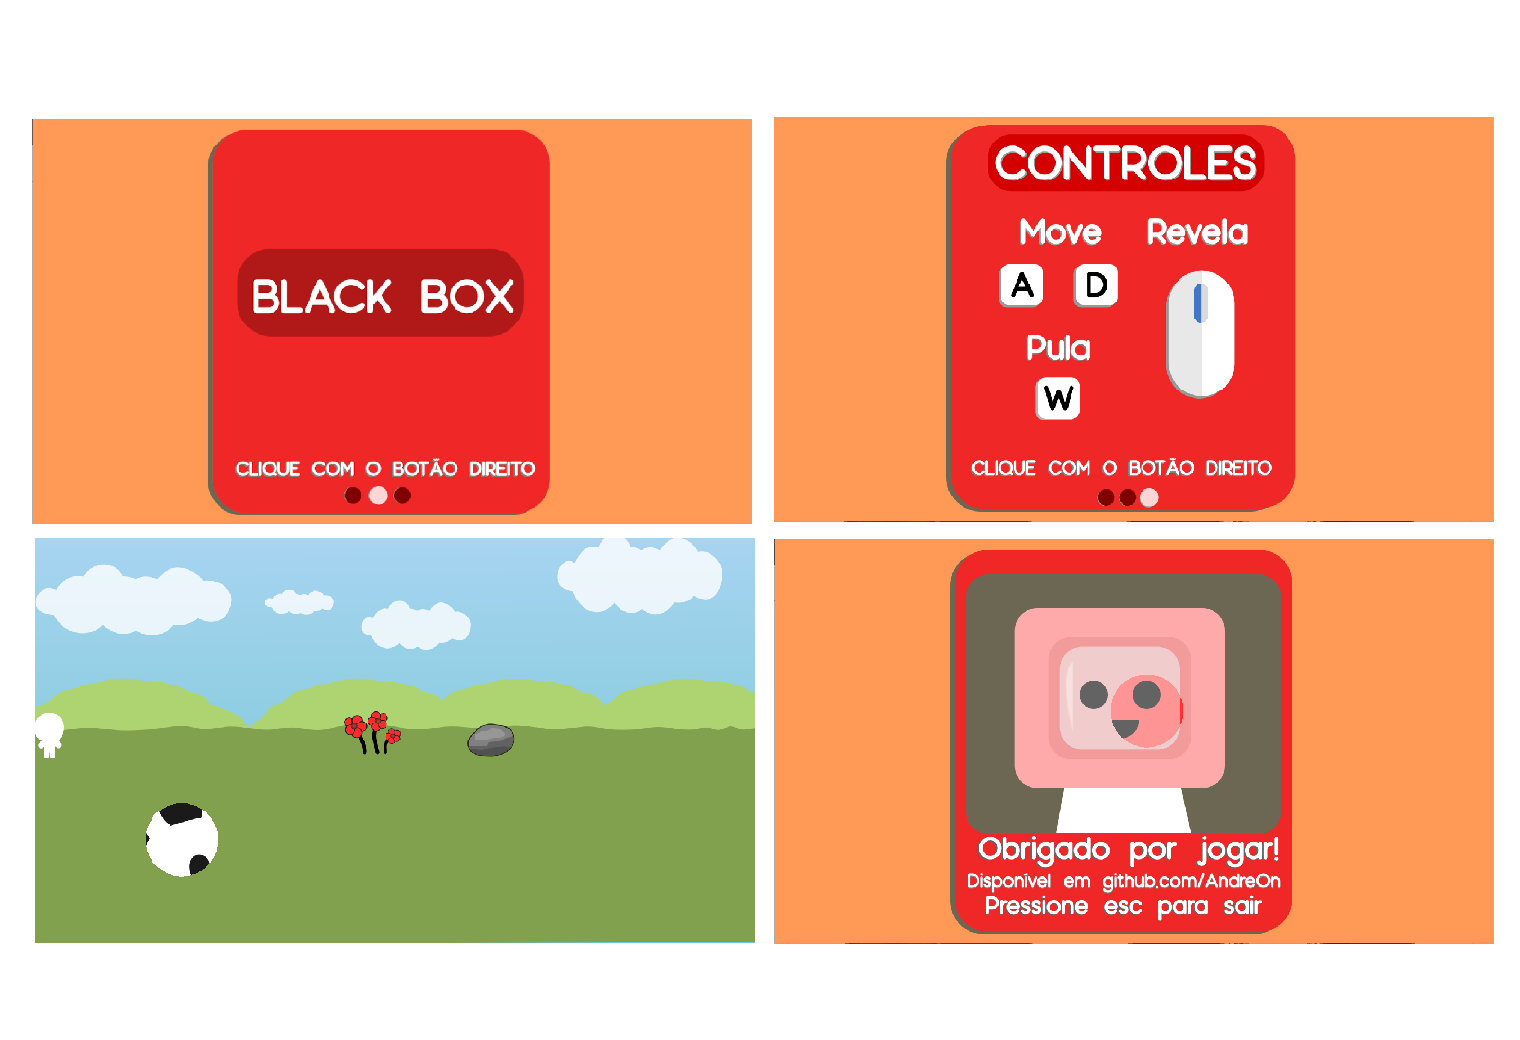
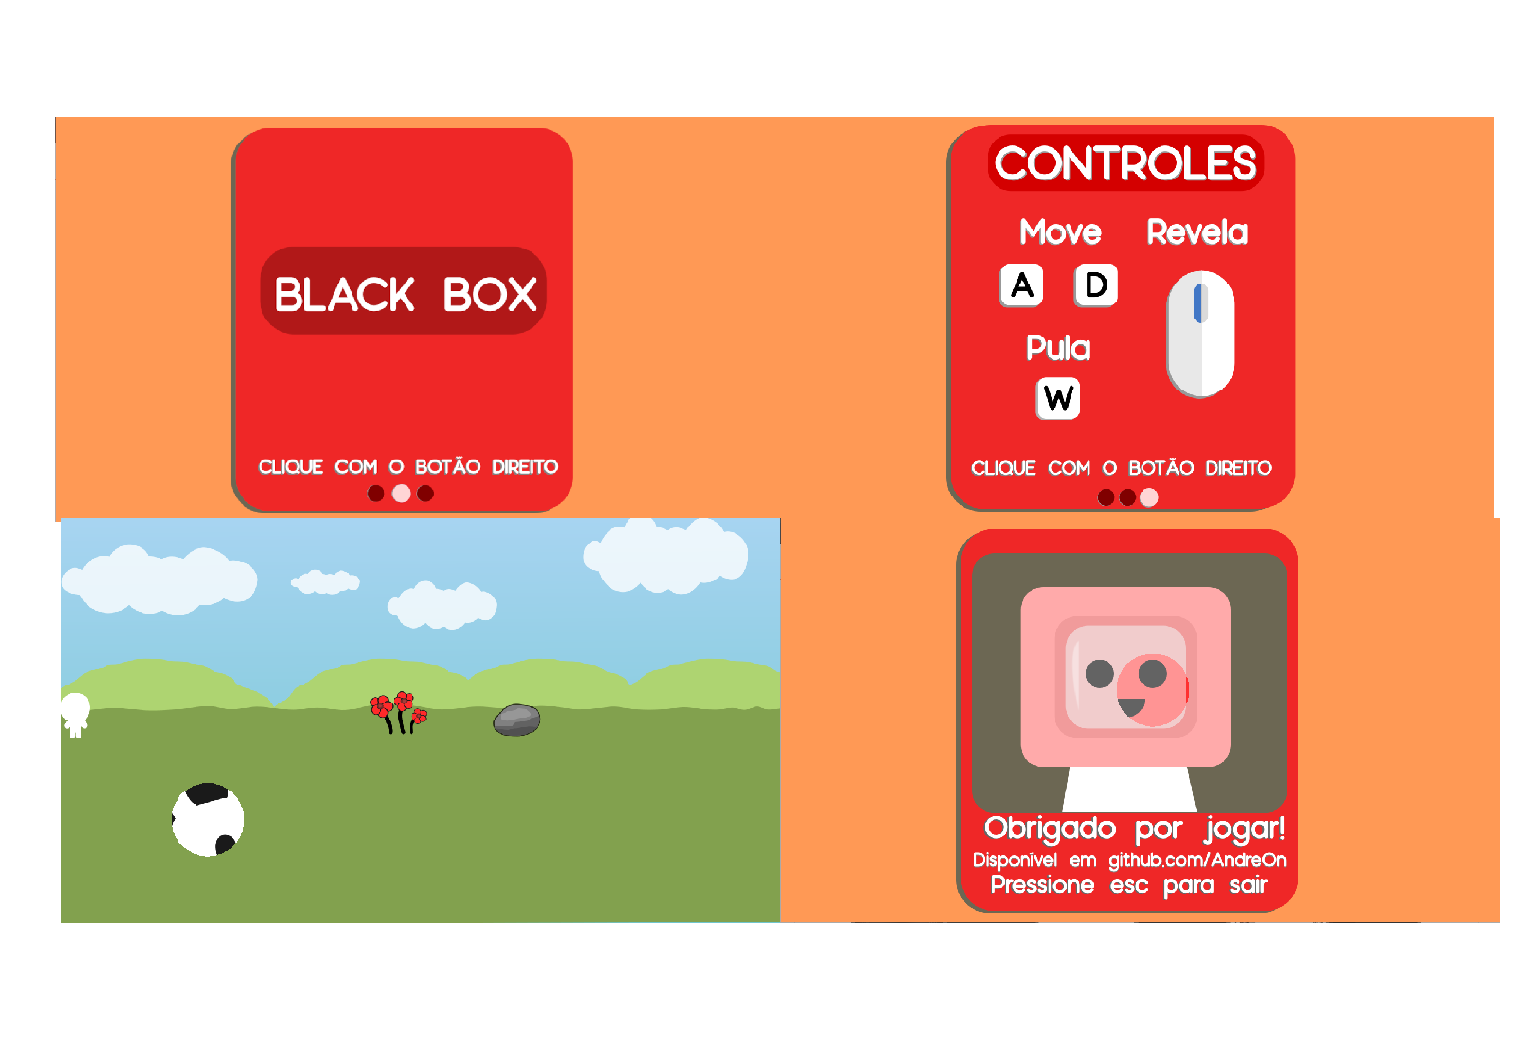
Imagem modificada para c2.png

Changed region(s): [[0.0, 0.0923, 0.9895, 0.9231]]

diff --git a/README.md b/README.md
@@ -1,6 +1,5 @@
 # Black Box
-
-<img src="https://github.com/Andre0n/Black-Box/blob/master/assets/Presentation.png">
+<img src="https://github.com/Andre0n/Black-Box/blob/master/assets/c2.png">
 
 ## Sobre este Projeto
 
@@ -12,7 +11,7 @@ _"Compartilhar um pouco dos meus resultados depois de meses de estudo da linguag
 
 ## Por quê?
 
-Este projeto foi a últim avalição da disciplina de Algoritmos na Universidade onde eu curso Ciência da Computação. 
+Este projeto foi a última avalição da disciplina de Algoritmos na Universidade onde eu curso Ciência da Computação. 
 
 Ficarei feliz se me fornecerem algum feedback sobre o projeto, código, estrutura ou qualquer outra coisa que possa me tornar um desenvolvedor melhor.
 
